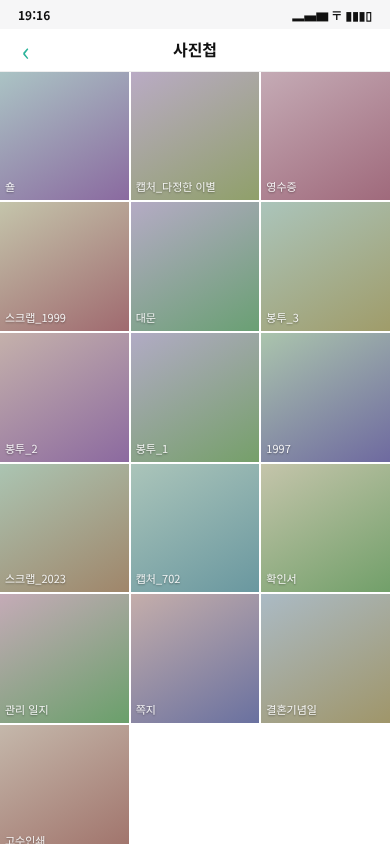
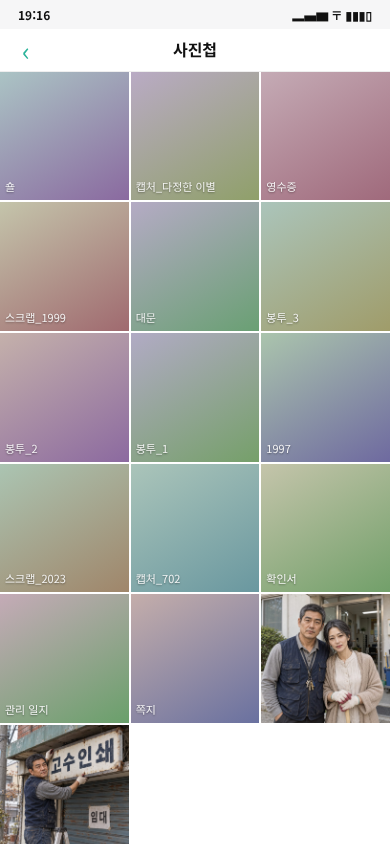
제작 이미지 9장 넣기: 한컷 피드 7장(나래·바름·오십분), 편지 폰 사진첩 2장(고수인쇄, 결혼기념일)
Claude-Session: https://claude.ai/code/session_013rH7iH9QmHxVV4rFPR8oex

Changed region(s): [[0.6462, 0.6777, 1.0, 0.8626], [0.0, 0.8318, 0.3385, 1.0]]

diff --git a/site/assets/photos.js b/site/assets/photos.js
@@ -1,6 +1,15 @@
 /* 글ID → 사진 파일 (site/ 기준 상대경로). 여기에 없는 글은 사진 설명 글로 보인다.
    [사진] 줄이 없는 글이면 본문 맨 위에 붙는다. 출처·라이선스는 site/img/CREDITS.md. */
 window.HW_PHOTOS = {
+  "S4-FEED-003": "img/S4-FEED-003.jpg",
+  "S4-FEED-005": "img/S4-FEED-005.jpg",
+  "S4-FEED-006": "img/S4-FEED-006.jpg",
+  "S4-FEED-008": "img/S4-FEED-008.jpg",
+  "S4-FEED-009": "img/S4-FEED-009.jpg",
+  "S4-FEED-013": "img/S4-FEED-013.jpg",
+  "S4-FEED-014": "img/S4-FEED-014.jpg",
+  "S2-PHOTO-001": "img/S2-PHOTO-001.jpg",
+  "S2-PHOTO-002": "img/S2-PHOTO-002.jpg",
   "S4-FEED-001": "img/S4-FEED-001.jpg",
   "S4-FEED-002": "img/S4-FEED-002.jpg",
   "S4-FEED-017": "img/S4-FEED-017.jpg",

diff --git a/site/img/CREDITS.md b/site/img/CREDITS.md
@@ -30,3 +30,12 @@ Unsplash 라이선스(https://unsplash.com/license)로 받은 사진. 상업적 
 | img/S8-PRESS-019.jpg | S8-PRESS-019 | 아파트 | https://images.unsplash.com/photo-1545324418-cc1a3fa10c00 |
 | img/S9-LG-005.jpg | S9-LG-005 | 야구 | https://images.unsplash.com/photo-1508344928928-7165b67de128 |
 | img/S10-TALK-030.jpg | S10-TALK-030 | 비 오는 거리의 우산 | https://images.unsplash.com/photo-1519692933481-e162a57d6721 |
+| img/S4-FEED-003.jpg | S4-FEED-003 | 제작 이미지 (생성, 인물 초상과 맞춤) | 자체 제작 |
+| img/S4-FEED-005.jpg | S4-FEED-005 | 제작 이미지 (생성, 인물 초상과 맞춤) | 자체 제작 |
+| img/S4-FEED-006.jpg | S4-FEED-006 | 제작 이미지 (생성, 인물 초상과 맞춤) | 자체 제작 |
+| img/S4-FEED-008.jpg | S4-FEED-008 | 제작 이미지 (생성, 인물 초상과 맞춤) | 자체 제작 |
+| img/S4-FEED-009.jpg | S4-FEED-009 | 제작 이미지 (생성, 인물 초상과 맞춤) | 자체 제작 |
+| img/S4-FEED-013.jpg | S4-FEED-013 | 제작 이미지 (생성, 인물 초상과 맞춤) | 자체 제작 |
+| img/S4-FEED-014.jpg | S4-FEED-014 | 제작 이미지 (생성, 인물 초상과 맞춤) | 자체 제작 |
+| img/S2-PHOTO-001.jpg | S2-PHOTO-001 | 제작 이미지 (생성, 인물 초상과 맞춤) | 자체 제작 |
+| img/S2-PHOTO-002.jpg | S2-PHOTO-002 | 제작 이미지 (생성, 인물 초상과 맞춤) | 자체 제작 |
